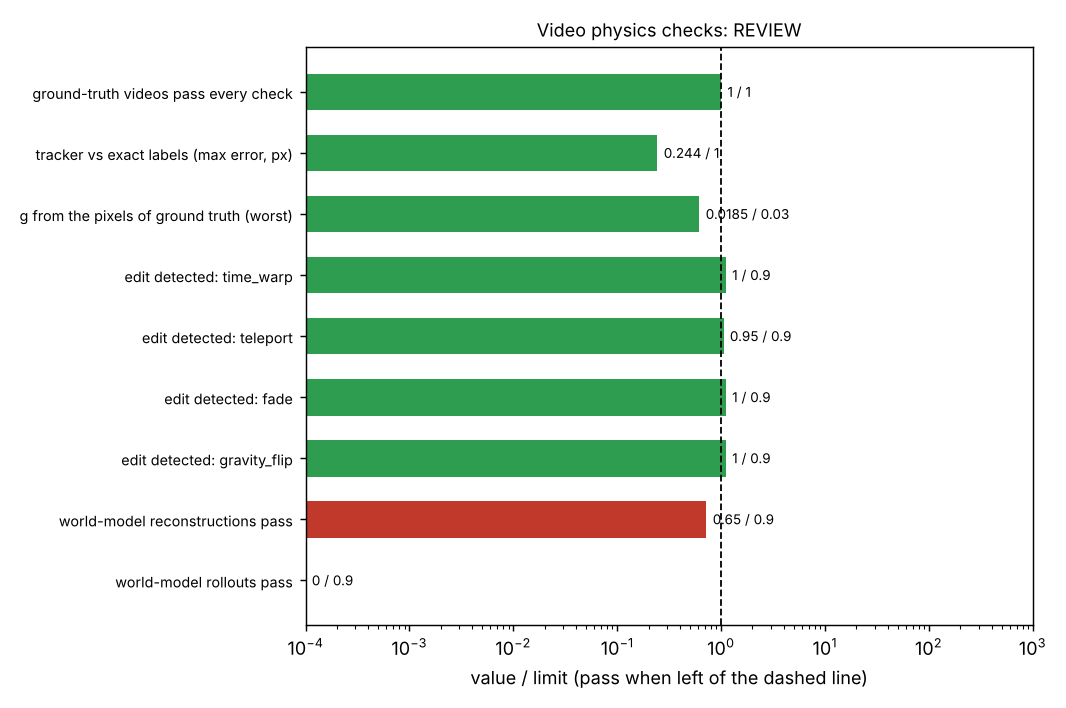
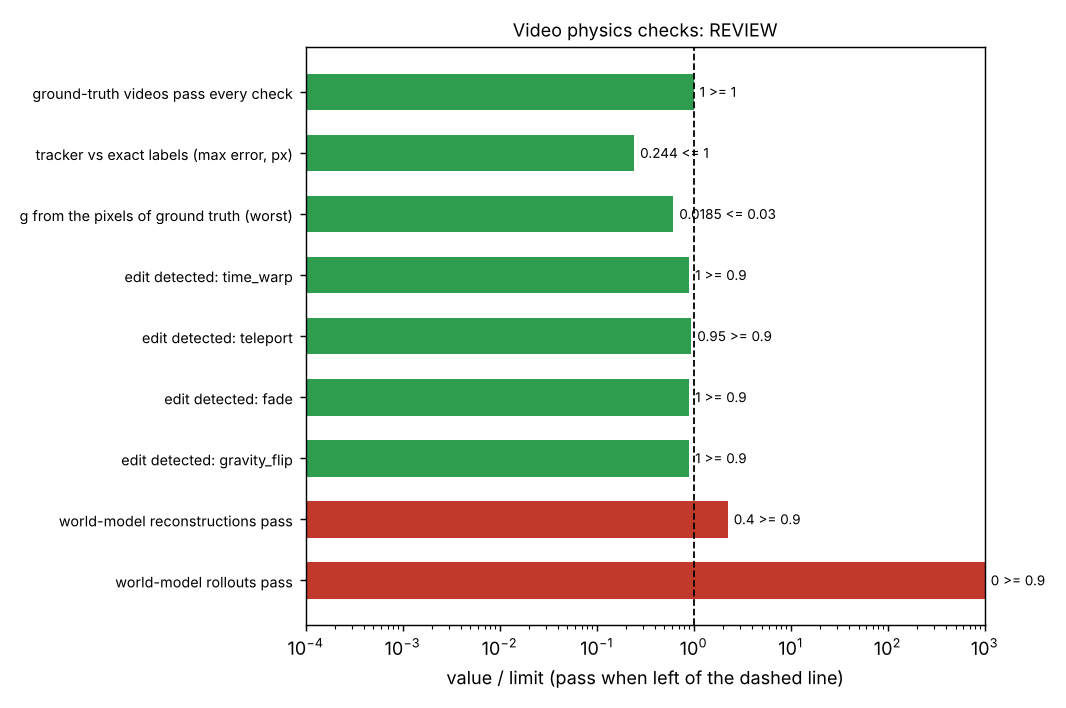
Example 04: recorded run and README; aggregated manifest for the world-model batch
Claude-Session: https://claude.ai/code/session_0196ouixTBTxQjf5HW5ABt6E

diff --git a/examples/nvidia/17_omniverse_robotsim_worldmodel_perception/run.py b/examples/nvidia/17_omniverse_robotsim_worldmodel_perception/run.py
@@ -138,7 +138,8 @@ def main(smoke=False, base=None):
             for c in checks:
                 ex.check(c["name"], c["passed"], value=c["value"], max=c["limit"], detail=c.get("detail", ""))
             ex.log_metric("angle_rms_visible", rms_vis, "rad", "test frames where the label check keeps the frame")
-            ex.log_metric("angle_rms_hidden", rms_hidden, "rad", "test frames the label check drops")
+            if np.isfinite(rms_hidden):
+                ex.log_metric("angle_rms_hidden", rms_hidden, "rad", "test frames the label check drops")
             info.mark("PINNeAPPle Robot Sim on NVIDIA Newton", ran=True)
             info.mark("OpenUSD timelines (usd-core)", ran=True)
             info.mark("PINNeAPPle World Model (synthetic camera, CNN)", ran=True)

diff --git a/examples/nvidia/04_worldmodel_physics_video/run.py b/examples/nvidia/04_worldmodel_physics_video/run.py
@@ -8,7 +8,7 @@ its free-flight acceleration equals g, no frame-to-frame jump exceeds what the f
 never grow (restitution <= 1). They are run on the ground truth, on four kinds of non-physical edits (time warp,
 teleport, fade-out, time reversal), on the world model's reconstructions and on its rollouts.
 
-    python examples/nvidia/04_worldmodel_physics_video/run.py         # ~12 min on 4 CPU cores
+    python examples/nvidia/04_worldmodel_physics_video/run.py         # ~16 min on 4 CPU cores
 """
 import argparse
 import json

diff --git a/examples/nvidia/04_worldmodel_physics_video/README.md b/examples/nvidia/04_worldmodel_physics_video/README.md
@@ -1,0 +1,47 @@
+# 04 Physics-consistent synthetic video and a world model judged by physics: PINNeAPPle + PINNeAPPle World Model
+
+**What.** PINNeAPPle World Model is the CPU alternative to NVIDIA Cosmos here.
+
+- **Synthetic videos:** a thrown ball bouncing on the floor, with event-exact bounces. Camera, size, brightness,
+  noise, blur and occluders are randomized. Every frame comes with exact labels (position, velocity, bounce times).
+- **Physics checks from the pixels alone:**
+  - the object is visible in every frame and its area is conserved;
+  - free-flight acceleration equals g, fitted between bounces;
+  - no speed beyond what the fall height allows (no teleport);
+  - apex heights never grow (no energy gain at a bounce).
+- **Test of the checks:** non-physical edits of real videos (time warp, teleport, fade, played backwards after a
+  bounce).
+- **World model:** a small one (conv encoder, GRU, decoder; 548 k parameters) trained on 200 videos with a
+  free-running loss, then judged by the same checks on its reconstructions and its 40-frame rollouts.
+
+**Why.** A world model's video can look right and still break physics. The checks do not care who made the video:
+simulator, this model, or NVIDIA Cosmos through `CosmosAdapter`, the same interface on the Cosmos NIM `/v1/infer`.
+
+| Step | Who | Ran here |
+|---|---|---|
+| synthetic videos with exact labels (200 train, 24 test) | PINNeAPPle World Model | yes |
+| video physics checks, edits, verdicts | PINNeAPPle | yes |
+| world model, 3 000 steps (926 s) | PINNeAPPle World Model (torch, CPU) | yes |
+| the same checks on NVIDIA Cosmos output (`CosmosAdapter`) | Cosmos NIM | no (needs a GPU or `NVIDIA_API_KEY`) |
+
+```bash
+python examples/nvidia/04_worldmodel_physics_video/run.py      # ~16 min on 4 CPU cores
+```
+
+## Results (this run: 4-core Xeon 2.1 GHz, no GPU)
+
+- **Ground truth:** all 24 test videos pass every check, including 4 with an occluder.
+  - Tracker error against the exact labels: at most 0.24 px.
+  - g from the pixels: within 1.9 % in the worst video.
+- **Edits detected:** time warp 100 %, teleport 95 % (1 of 20 missed), fade 100 %, played backwards 100 %.
+- **World model** (pixel MAE of the rollouts 0.021):
+  - **Reconstructions:** 40 % pass every check. The main failure is the object's area (12 of 20).
+  - **Rollouts:** **0 of 20** pass.
+    - g fitted from the rollout pixels: median **4.8 m/s2** (1.4 to 17.2).
+    - The ball fades and grows in all 20 rollouts and vanishes in 10.
+- **Decision: REVIEW.** The checks are sound: ground truth passes and edits are caught. The small world model's
+  videos look plausible at a glance (`rollout.png`) but fall at half of g, smear and fade. Example 09 keeps the
+  physics by learning the dynamics on the exact state labels instead.
+
+Figures in `results/`: `architecture.png`, `physics_verdicts.png` (pass rates by check for ground truth, edits,
+reconstructions and rollouts), `rollout.png` (truth vs rollout frames), `checks.png`.

diff --git a/examples/nvidia/README.md b/examples/nvidia/README.md
@@ -20,7 +20,7 @@ hardware, timings, which components ran).
 | 01 | O | [Pump and pipeline water-hammer twin](01_omniverse_pump_pipeline/README.md) | APPROVED (60 s closure only) | done |
 | 02 | P | [Plume forecast, FNO rollout](02_physicsnemo_plume_rollout/README.md) | REVIEW (10-step horizon) | done |
 | 03 | I | [Pick-and-place arm in the robot sim, structural checks](03_robotsim_pick_and_place/README.md) | APPROVED (shoulder motor at 95 %) | done |
-| 04 | C | Physics-consistent synthetic video and world model | | planned |
+| 04 | C | [Physics-consistent synthetic video, a world model judged by physics](04_worldmodel_physics_video/README.md) | REVIEW (checks sound; model rollouts 0/20) | done |
 | 05 | B | [Strap with a hole: exact geometry, FEM, Heywood](05_brep_plate_with_hole/README.md) | APPROVED (Kt 2.320 vs 2.296) | done |
 | 06 | N | [Zoo surrogates as NIM-style services with a trust report per answer](06_model_services_zoo/README.md) | APPROVED (out-of-range answers flagged) | done |
 | 07 | O + P | [Cold plate surrogate in a USD scene](07_omniverse_physicsnemo_coldplate/README.md) | REJECT (energy balance) | done |
